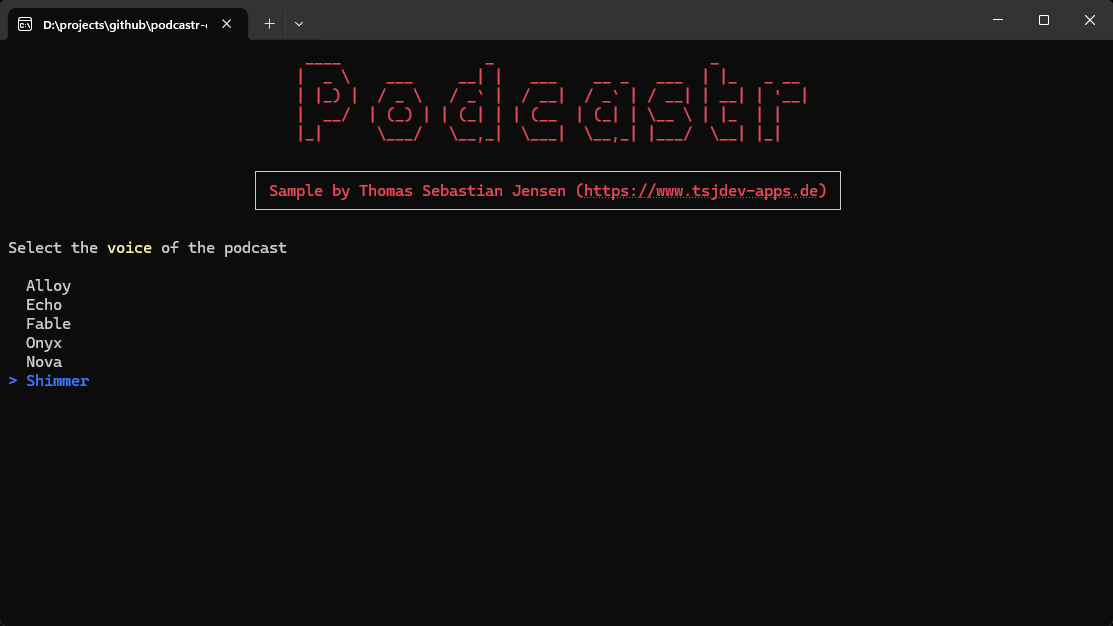
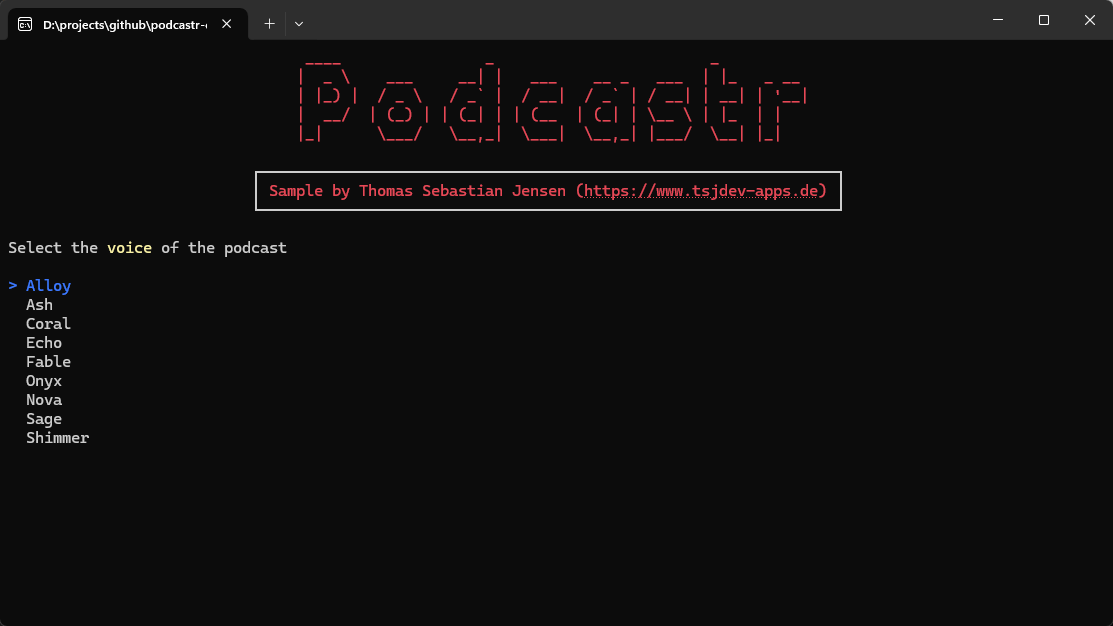
Updates documentation screenshots and steps
Updates the documentation to reflect the correct order of steps in the console application and replaces outdated screenshots with the correct ones.

Changed region(s): [[0.0, 0.4553, 0.0916, 0.7284]]

diff --git a/README.md b/README.md
@@ -26,19 +26,19 @@ Here you can see the console application in action.
 
 ![podcastr-console-01](/docs/podcastr-console-01.png)
 
-2. Enter the `Name` of your podcast.
+1. Enter the `Name` of your podcast.
 
 ![podcastr-console-01](/docs/podcastr-console-02.png)
 
-3. Specify the `Language` of your podcast. Currently supported languages are German, English, Spanish, and French. However, the AI models support additional languages.
+1. Specify the `Language` of your podcast. Currently supported languages are German, English, Spanish, and French. However, the AI models support additional languages.
 
 ![podcastr-console-01](/docs/podcastr-console-03.png)
 
-4. Select a `Voice`. Azure OpenAI currently supports six different voices.
+1. Select a `Voice`. Azure OpenAI currently supports six different voices.
 
 ![podcastr-console-01](/docs/podcastr-console-04.png)
 
-5. After configuring your settings, the application will generate the following:
+1. After configuring your settings, the application will generate the following:
 
 - *Podcast Script*
 - *Podcast Description*
@@ -48,7 +48,7 @@ Here you can see the console application in action.
 
 The final output will be a ZIP archive containing all generated assets. You will also get a approximate price for the generation.
 
-![podcastr-console-01](/docs/podcastr-console-07.png)
+![podcastr-console-01](/docs/podcastr-console-05.png)
 
 ## Sample Output
 
